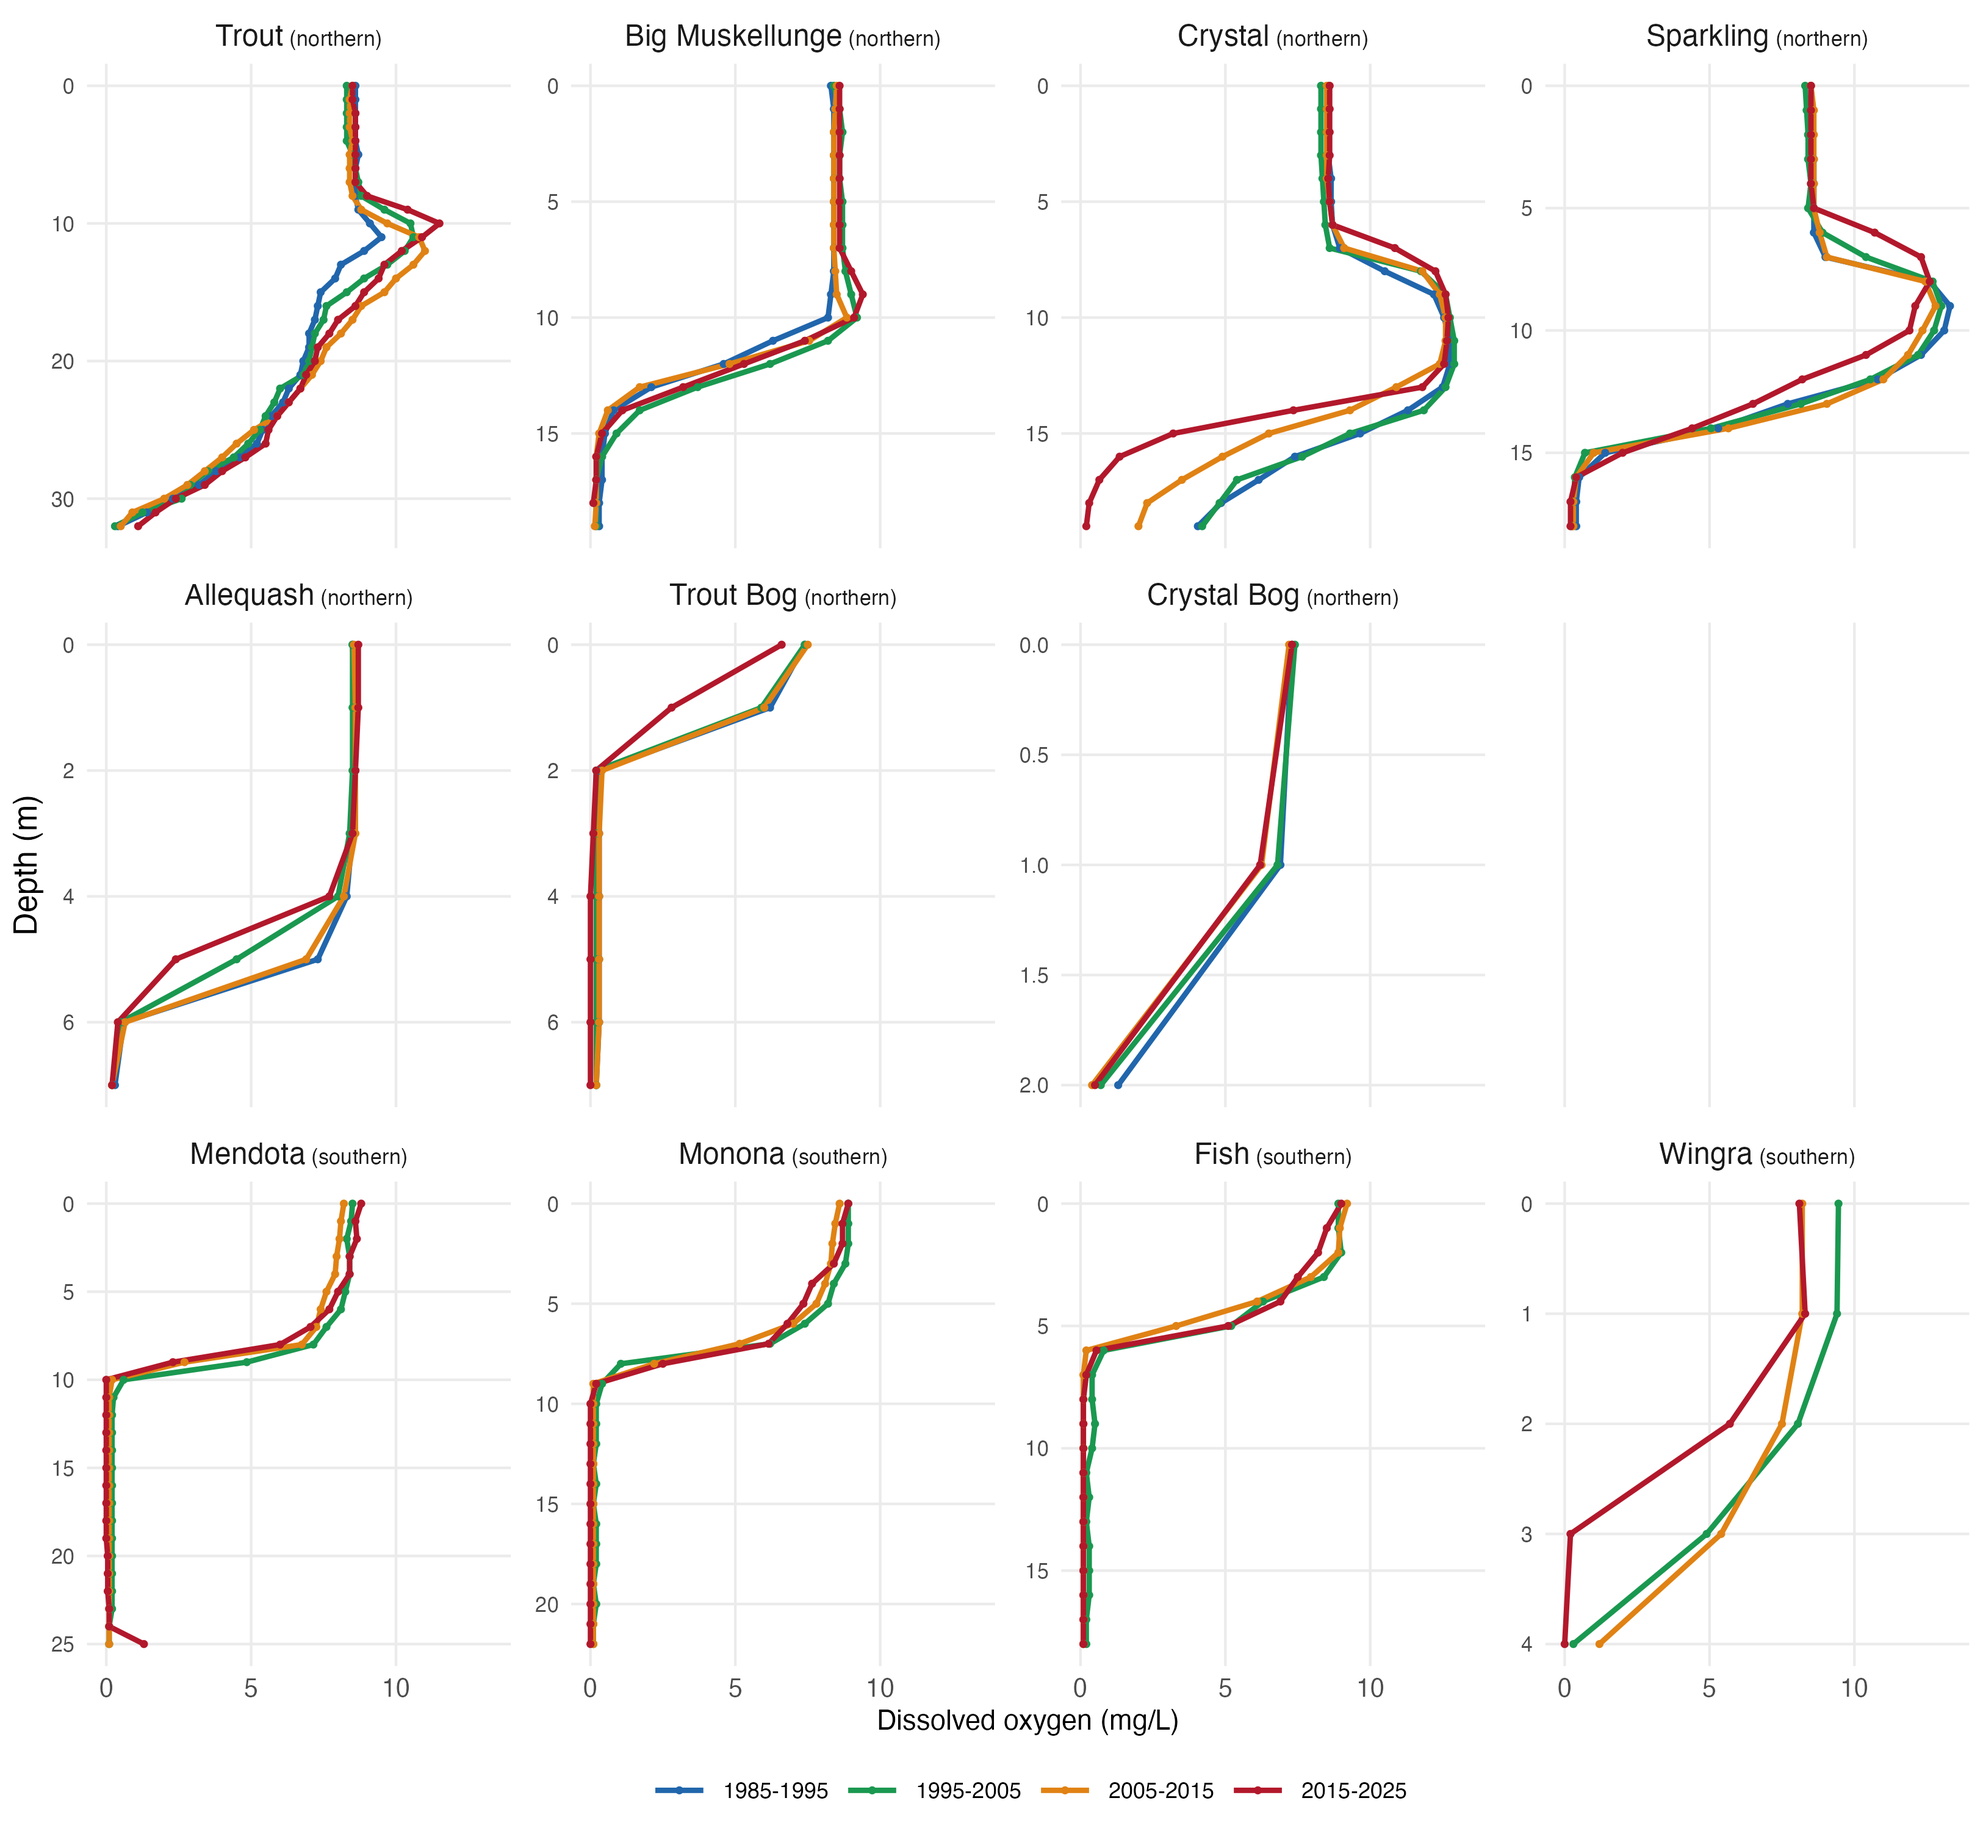
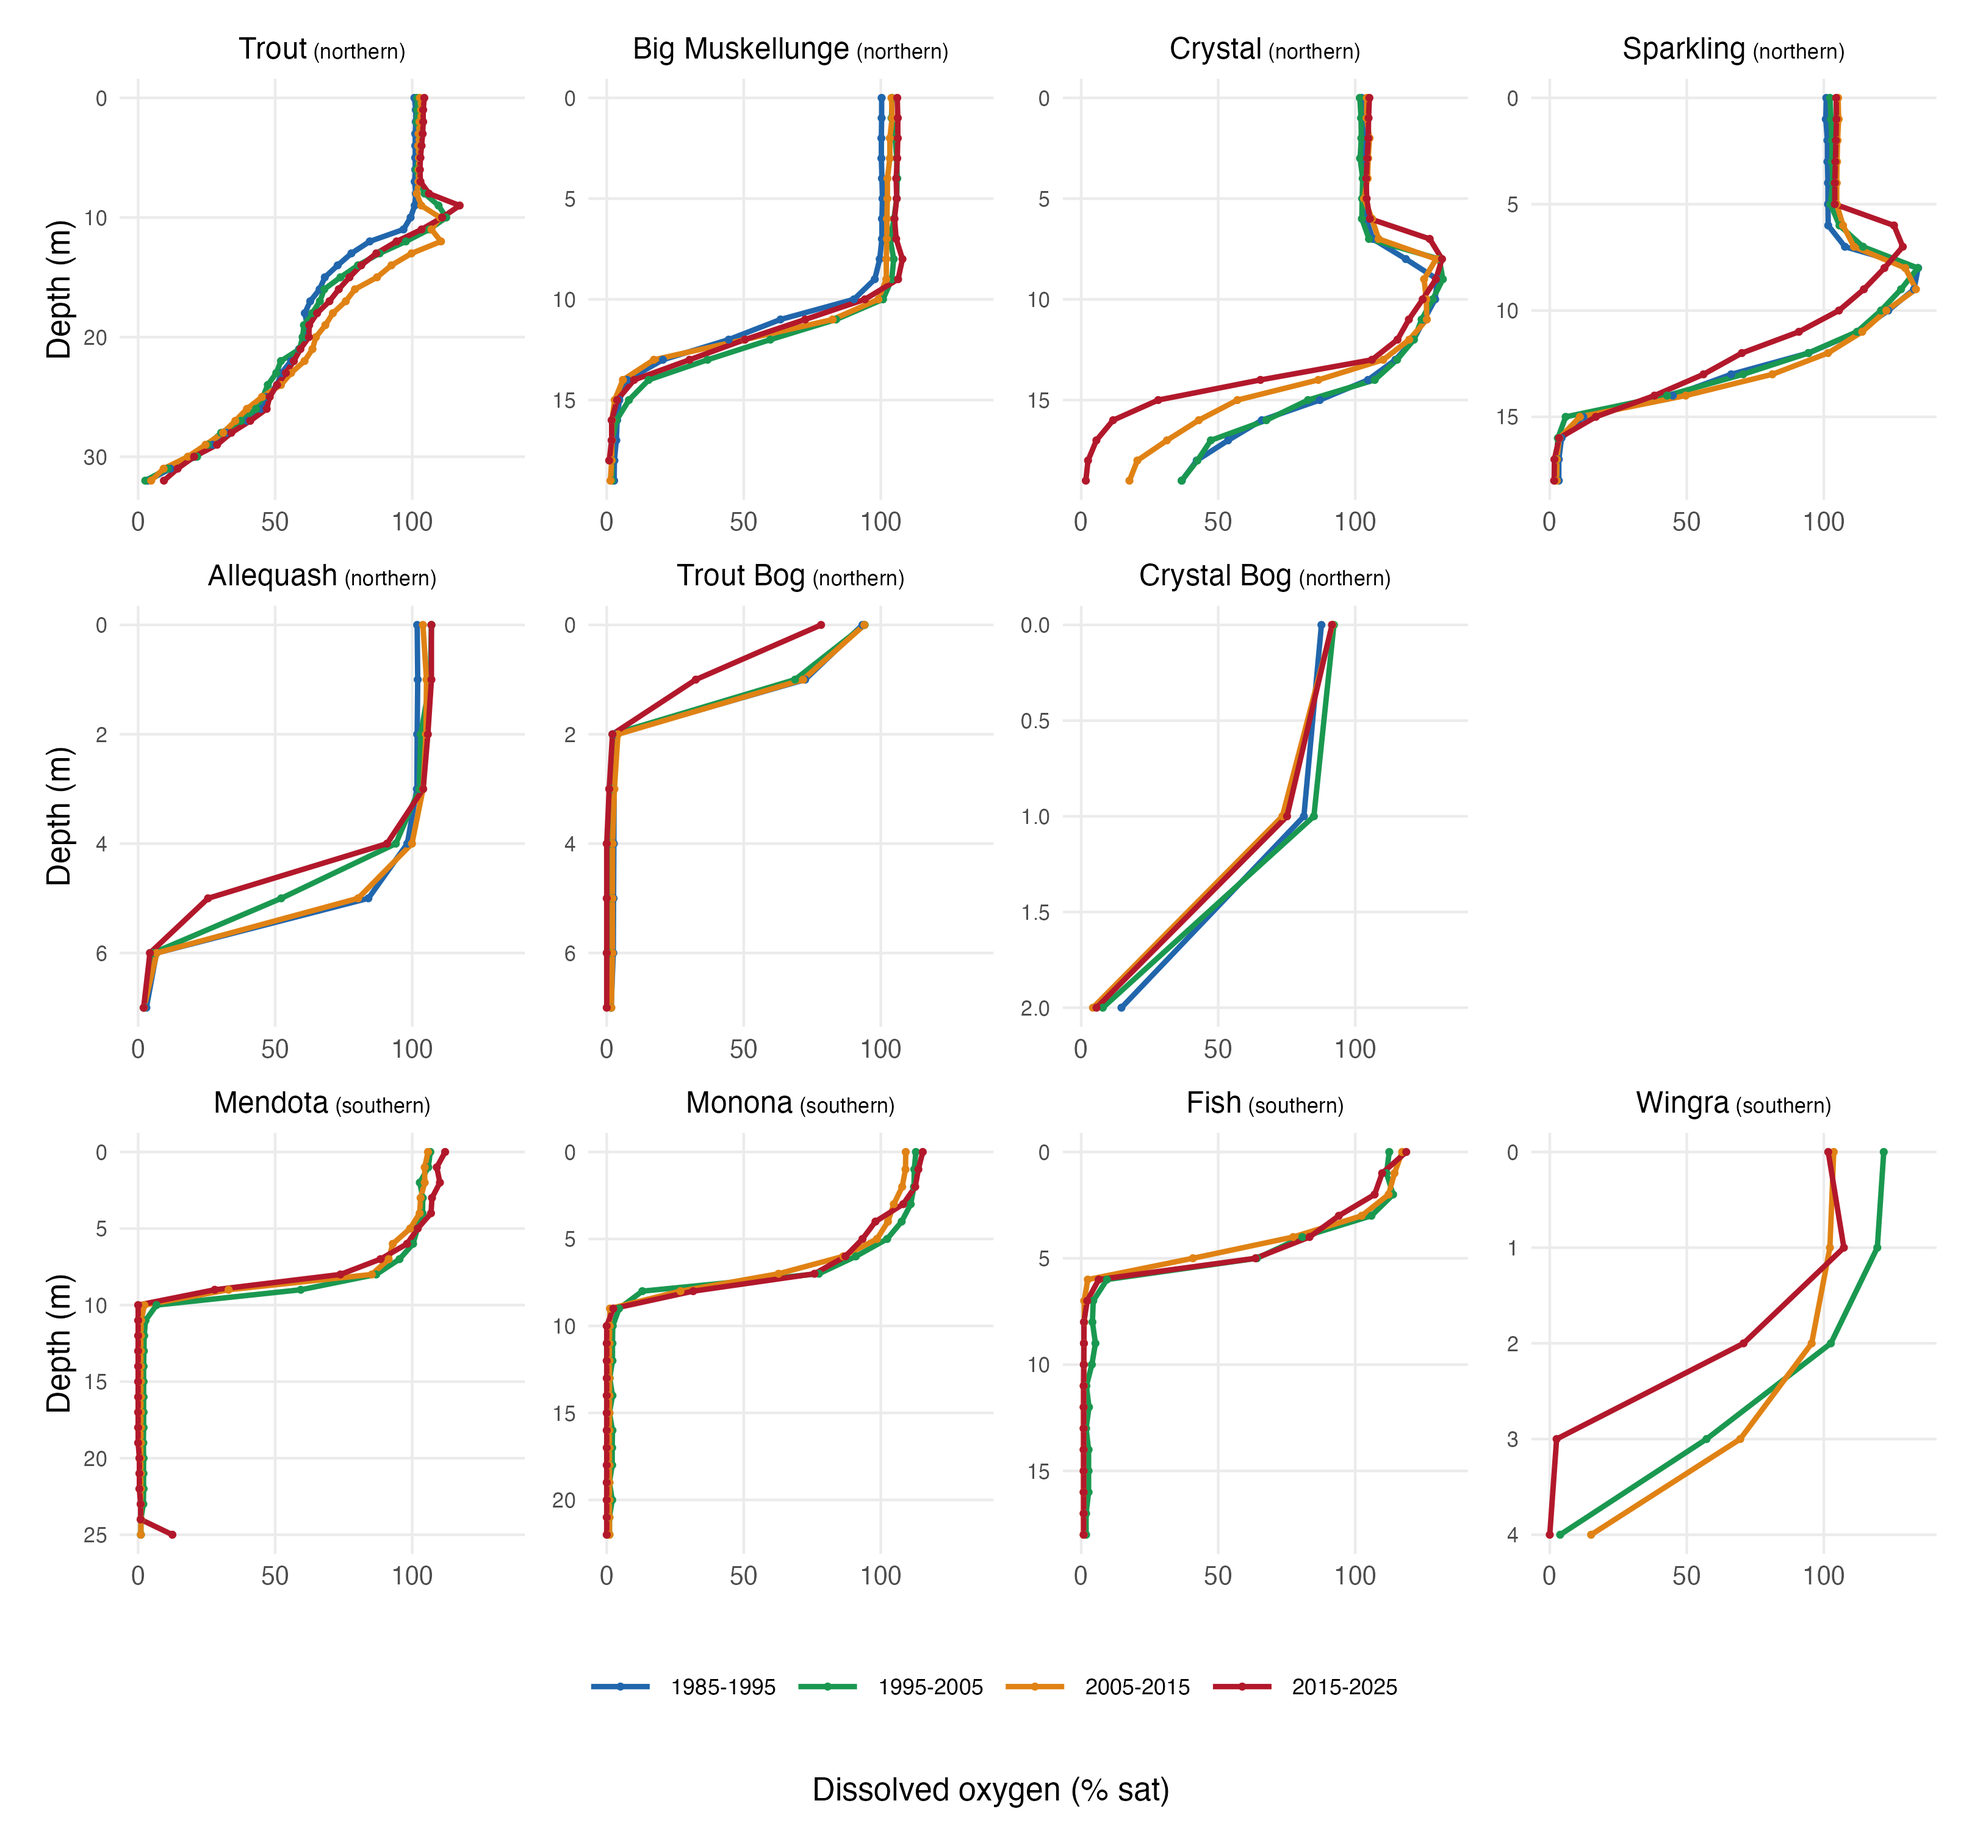
Figure3: true blank gap panel, single legend, % sat, per-panel ticks
Switched from a facet_wrap dummy-level trick (still drew gridlines/axes
on the "empty" panel) to individual ggplots assembled with patchwork,
using a genuinely empty ggplot for the gap slot.

patchwork's guides="collect" kept producing two duplicate copies of the
(structurally identical) legend across the 11 independent panels for
reasons that resisted several different fixes (blank-panel legend
state, guide limits, collection call style). Worked around it: turned
off each panel's own legend, extracted one legend grob directly from a
reference panel's ggplotGrob(), and placed it manually as an extra row
below the 3x4 grid via patchwork.

Also: switched from mg/L to % saturation (o2sat) per user request; every
panel now shows its own x-axis (fixed breaks at 0/50/100) and depth tick
labels rather than only panels at the edge of the grid; the x-axis TITLE
stays a single shared caption at the bottom rather than repeating per
panel. Fixed a plot_layout(heights=...) mismatch (was sized for the
wrong number of rows, leaving a large blank gap above the legend).
Guarded extract_legend()'s ggplotGrob() call with pdf(NULL)/dev.off() so
it doesn't leave a stray Rplots.pdf in the working directory.

diff --git a/README.md b/README.md
@@ -22,7 +22,7 @@ which reads `figures/fig02_trends_table.csv` for its DOC/Secchi arrows.
 | `fig03_04_depthtime.R` | `fig03_northern_do/sat.png`, `fig04_southern_do/sat.png` — depth-time DO heatmaps, northern vs southern lakes. NOTE: shares the `fig03` filename prefix with `Figure3_o2_profiles.R` below (different basenames, no actual collision, but easy to confuse by number) |
 | `Figure2_clarity_trends.R` | `fig02_clarity_trends.png` — standardized (robust z-score, median/MAD) water-clarity trends, all 11 lakes: Kd/DOC/Secchi for the 7 northern lakes, DOC/Secchi only for the 4 southern lakes (no Kd data there). CDOM colour (EDI 87, a440) is deliberately excluded. Also writes `figures/fig02_trends_table.csv` (lake x metric slopes with p-values) |
 | `Figure1_rate_of_change.R` | `fig01_rate_mgL.png`, `fig01_rate_sat.png` — Theil-Sen trend heatmaps by depth & season, all 11 lakes. The DOC/Secchi arrows beside each lake name are read from `figures/fig02_trends_table.csv` rather than fit here — **run `Figure2_clarity_trends.R` first** |
-| `Figure3_o2_profiles.R` | `fig03_o2_profiles.png` — August DO depth profile, all 11 lakes, four overlaid decade medians (1985-1995 / 1995-2005 / 2005-2015 / 2015-2025, blue->green->orange->red). No annotations (no anoxic-boundary markers, no metalimnetic-O2-max diamonds) — just the raw profile shape across decades. Independent of the other two `Figure*.R` scripts |
+| `Figure3_o2_profiles.R` | `fig03_o2_profiles.png` — August DO (% saturation) depth profile, all 11 lakes, four overlaid decade medians (1985-1995 / 1995-2005 / 2005-2015 / 2015-2025, blue->green->orange->red). No annotations (no anoxic-boundary markers, no metalimnetic-O2-max diamonds) — just the raw profile shape across decades. Panels built individually + assembled with patchwork (not facet_wrap) so the gap left by the 7th northern lake is a true blank space and the legend is extracted once and placed manually. Independent of the other two `Figure*.R` scripts |
 | `fig15_chl_profiles_aug.R` | `fig15_chl_profiles_aug.png` — August chlorophyll profiles |
 | `figS_BM_o2sat_panel.R` | `figS_BM_o2sat_1996-05.png` (+ legend) — Big Muskellunge O2 saturation panel |
 
